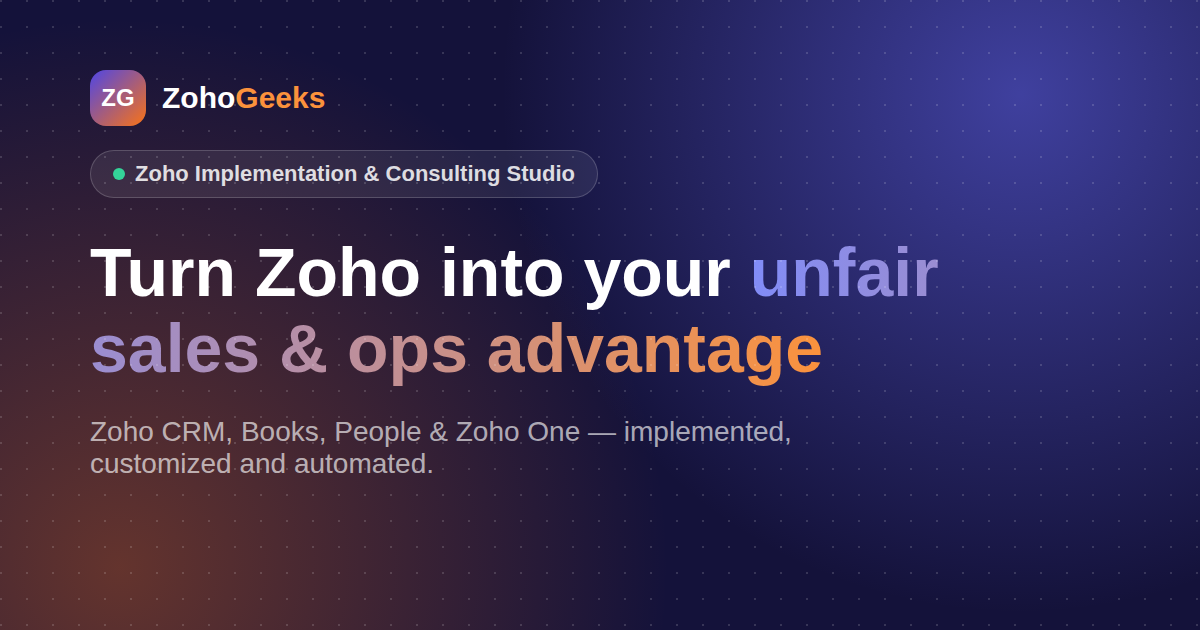
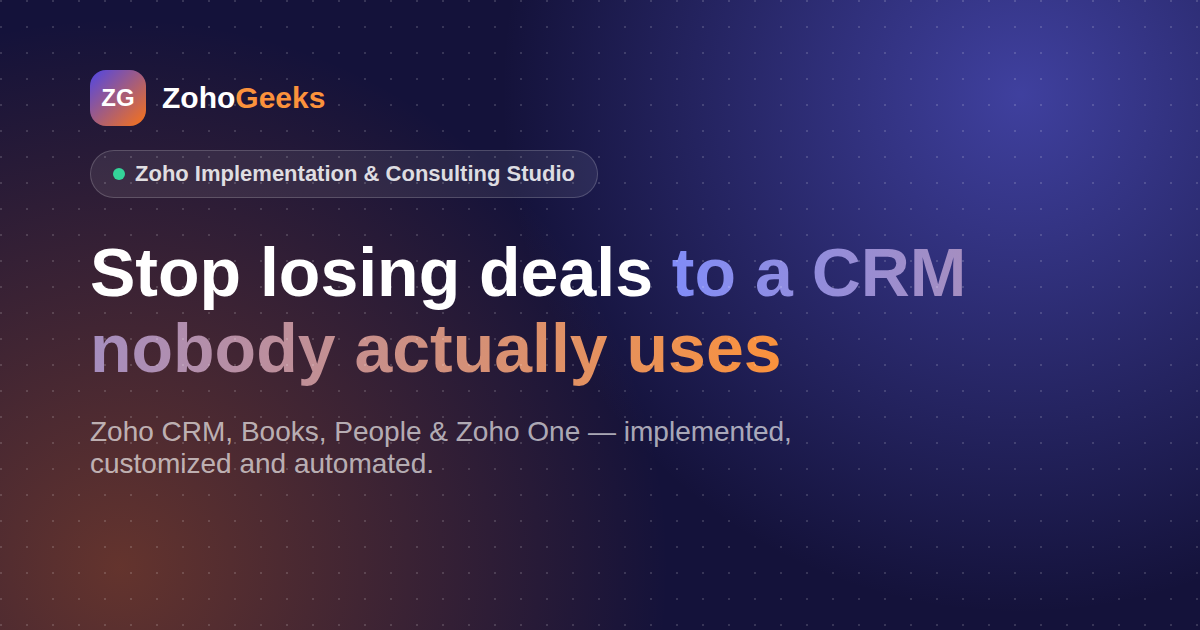
Rewrite hero headline — "unfair advantage" was empty marketing filler
"Turn Zoho into your unfair sales & ops advantage" jammed two nouns
between "unfair" and "advantage," breaking the idiom, and the concept
itself was vague hype-speak that didn't say what the business does.

Replaced with "Stop losing deals to a CRM nobody actually uses" —
concrete, and consistent with the pain point already established
elsewhere on the site (the Trust section's "most Zoho rollouts we saw
were half-configured and abandoned" and the "5 Signs You've Outgrown
Spreadsheets" post). Regenerated og-image.png to match.

Changed region(s): [[0.0617, 0.3921, 0.8017, 0.6333]]

diff --git a/src/components/Hero.jsx b/src/components/Hero.jsx
@@ -26,9 +26,9 @@ export default function Hero() {
             </div>
 
             <h1 className="mt-6 font-display text-4xl font-extrabold leading-[1.1] text-white sm:text-5xl lg:text-[3.4rem]">
-              Turn Zoho into your
+              Stop losing deals
               <span className="block text-gradient bg-gradient-to-r from-accent-400 to-brand-300">
-                unfair sales &amp; ops advantage
+                to a CRM nobody actually uses
               </span>
             </h1>
 
